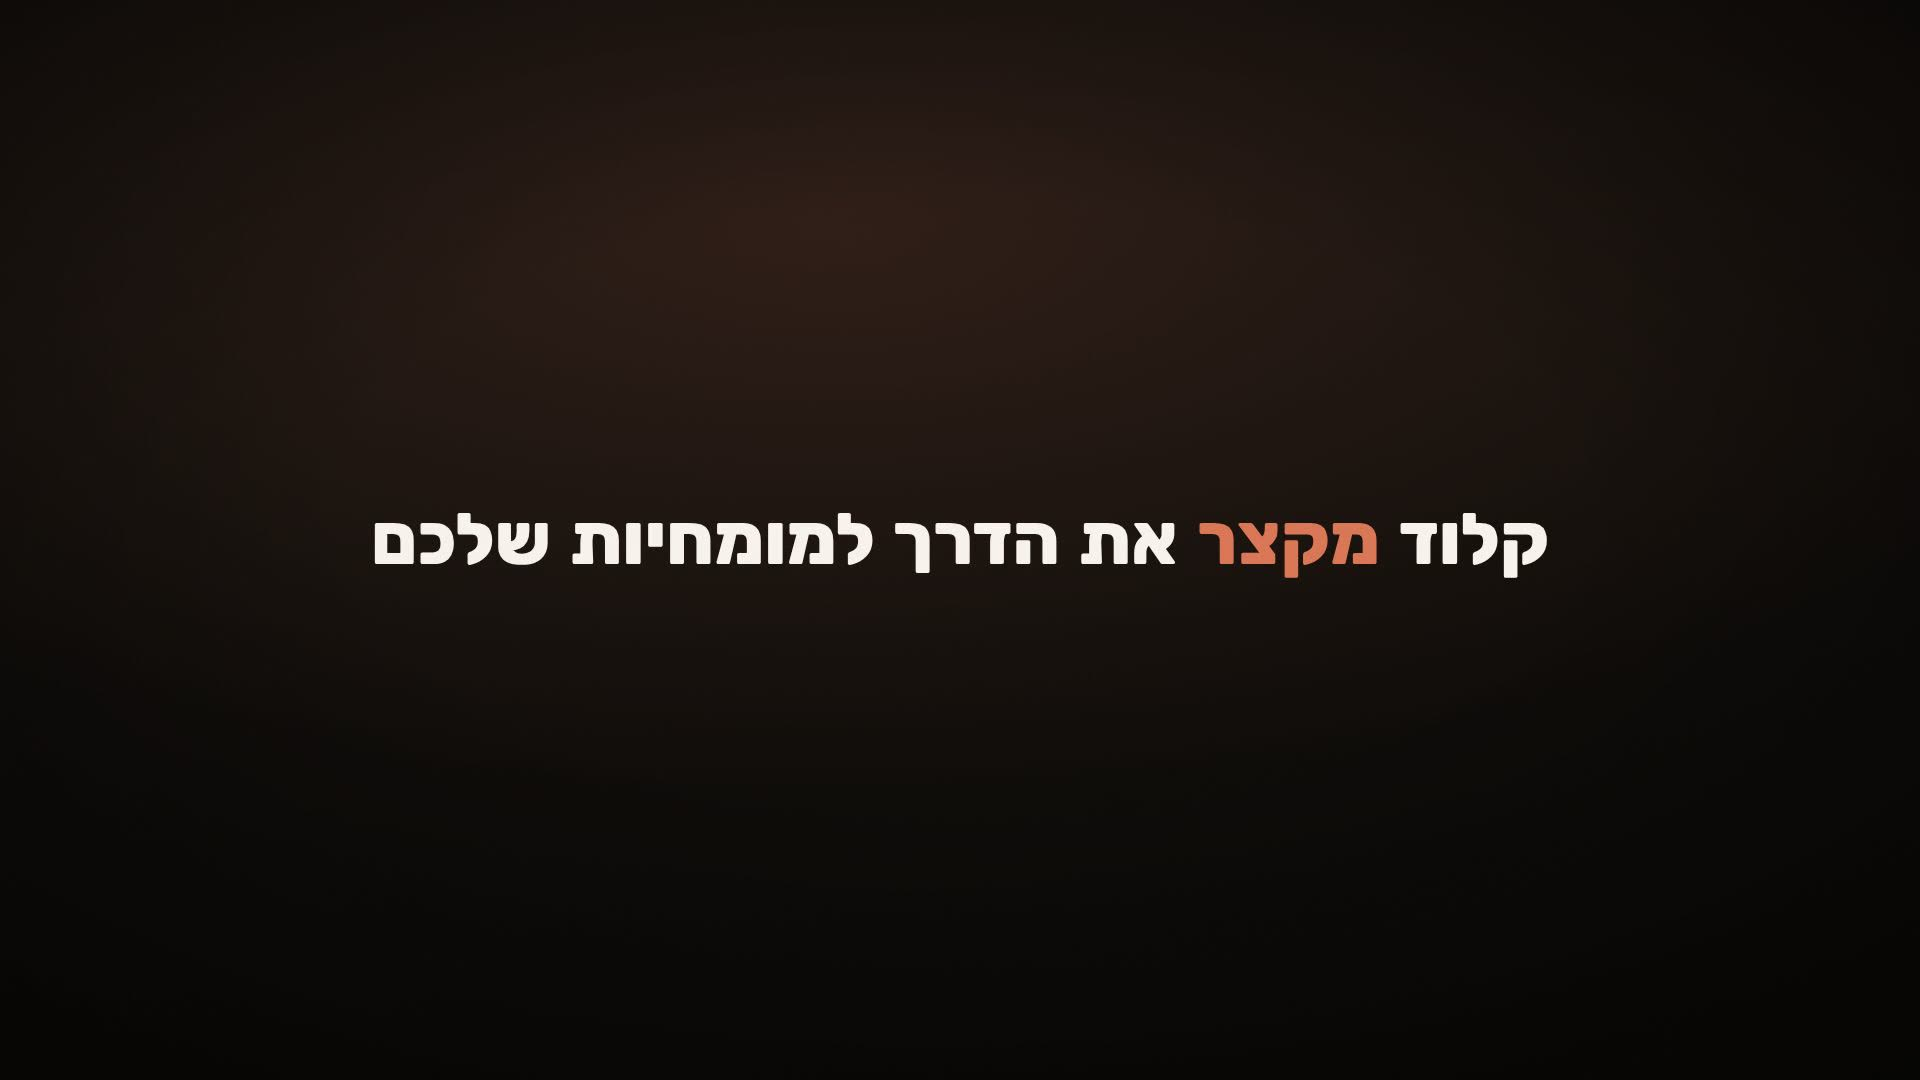
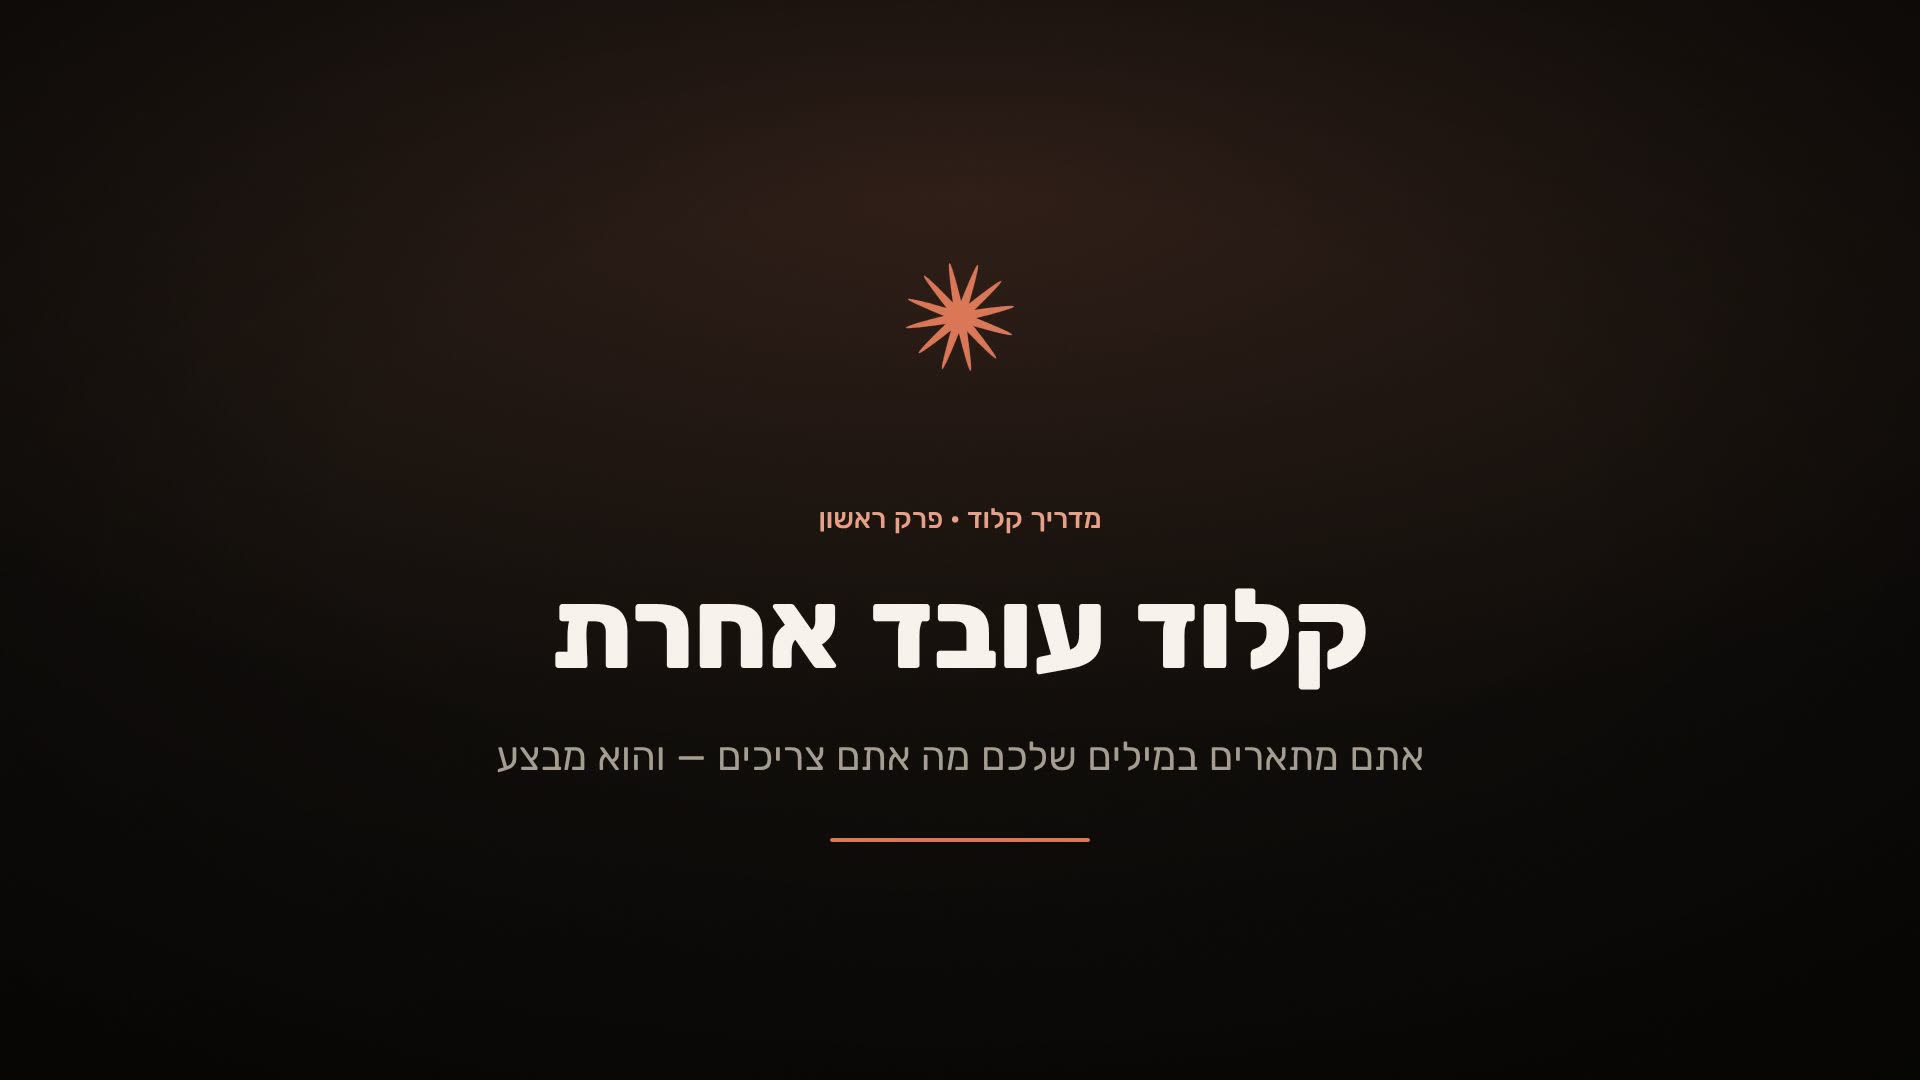
Add episode 2, and correct episode 1 to the names the films use
Both films carry a title card naming the series, the episode number, the title
and a subtitle. I had not found episode 1's — sampling at two and nine-tenths
of a second caught it mid-animation — so its entry went in under a title and a
series name I wrote myself. Episode 2's card made that visible.

Corrected to what the films say:

  series   קלוד — סדרת הדרכה   ->  מדריך קלוד
  ep01     עוזר מקצועי, לא עוד כלי  ->  קלוד עובד אחרת
  ep01     פרק 1               ->  פרק ראשון

Episodes now carry the film's own subtitle in a `lead` field, which reads in the
list where a clamped summary used to, and as a deck on the episode page. A
comment on the data says the title cards are authoritative, so the next episode
does not get invented copy either.

Both posters are now the films' own title cards rather than frames pulled from
the middle. A title card is what a poster is for, and it makes the list
thumbnails identifiable instead of dark rectangles.

Episode 2, "מתחברים ומתחילים" — one account across mobile, desktop and browser;
the main screen and its single text field; the model picker and why the heaviest
model is not automatically the right one; and setting personal preferences once
rather than re-explaining them in every chat. 1920x1080, 6:54, 29.3MB at
239kbps video — heavily compressed, but it is text slides and UI stills, and the
frames hold up.

Also: the page kicker no longer repeats the title it sits above, and the shell
link uses the series' real name.
[…]

diff --git a/src/content/explainers.ts b/src/content/explainers.ts
@@ -20,6 +20,8 @@ export interface ExplainerEpisode {
   title: string;
   /** Short eyebrow label. */
   kicker: string;
+  /** The film's own subtitle, from its title card. */
+  lead: string;
   summary: string;
   /** The one line to leave with. */
   takeaway: string;
@@ -47,14 +49,18 @@ export interface ExplainerSeries {
 
 export const explainerSeries: ExplainerSeries = {
   id: 'claude',
-  title: 'קלוד — סדרת הדרכה',
-  lead: 'סדרת פרקים קצרים על עבודה עם קלוד: מה להעביר לו, איך לזהות משימה שמתאימה, ומה נשאר באחריות שלכם.',
+  // The films name themselves on their own title cards — series, episode number,
+  // title and subtitle — so all of that is transcribed rather than written around
+  // them. Anything here that disagrees with a title card is a mistake.
+  title: 'מדריך קלוד',
+  lead: 'סדרת פרקים קצרים על עבודה עם קלוד: מה להעביר לו, איפה הוא יושב, ואיך להגדיר אותו פעם אחת כך שיתאים לעבודה שלכם.',
   episodes: [
     {
       id: 'ep01',
       n: 1,
-      title: 'עוזר מקצועי, לא עוד כלי',
-      kicker: 'פרק 1',
+      title: 'קלוד עובד אחרת',
+      kicker: 'פרק ראשון',
+      lead: 'אתם מתארים במילים שלכם מה אתם צריכים — והוא מבצע',
       summary:
         'רוב הכלים שאנחנו עובדים איתם דורשים שנדע בדיוק מה לעשות ואיפה ללחוץ. קלוד עובד אחרת — מעבירים לו משימה שלמה והוא מבצע אותה: מסמך של 40 עמודים שהוא קורא ועונה עליו לעומק, טיוטת הצעה ללקוח, מסמך תהליך, שלד של מצגת. הפרק מציג את כלל האצבע לזיהוי משימה מתאימה, את החיבור של החשבון הארגוני למיקרוסופט 365, ואת הגבולות שנשארים אצל האדם.',
       takeaway:
@@ -63,6 +69,21 @@ export const explainerSeries: ExplainerSeries = {
       poster: 'assets/poster/claude-ep01.jpg',
       duration: 219.78,
       bytes: 24429891,
+    },
+    {
+      id: 'ep02',
+      n: 2,
+      title: 'מתחברים ומתחילים',
+      kicker: 'פרק שני',
+      lead: 'התקנה, חשבון, והמסך שממנו הכל מתחיל',
+      summary:
+        'חשבון אחד עובד בנייד, במחשב ובדפדפן, והשיחות עוברות איתכם בין המכשירים. הפרק עובר על המסך הראשי ועל שדה הטקסט היחיד שממנו הכל מתחיל, על בורר המודלים — ולמה המודל הכבד ביותר הוא לא בהכרח הנכון, כשהוא מחזיר אותה תוצאה תמורת יותר זמן ויותר מכסה — ועל ההגדרות האישיות: מגדירים פעם אחת מה התפקיד שלכם, איזה אורך תשובה אתם רוצים ואיזה סוג דוגמאות, במקום להסביר את זה מחדש בכל צ׳אט.',
+      takeaway:
+        'פתחתם את הבורר ואין לכם מושג? Sonnet הוא בדרך כלל הימור מצוין. ואת ההעדפות שלכם כדאי להגדיר פעם אחת, לא בכל שיחה.',
+      file: 'assets/video/claude-ep02.mp4',
+      poster: 'assets/poster/claude-ep02.jpg',
+      duration: 414.44,
+      bytes: 29290366,
     },
   ],
 };

diff --git a/src/learner/Explainers.tsx b/src/learner/Explainers.tsx
@@ -28,7 +28,7 @@ export function Explainers() {
       <main className="page page--narrow" style={{ margin: '0 auto' }}>
         <div className="page__head">
           <div>
-            <div className="page__kicker">הדרכות קלוד</div>
+            <div className="page__kicker">סדרת וידאו</div>
             <h1>{explainerSeries.title}</h1>
             <p>{explainerSeries.lead}</p>
           </div>
@@ -52,7 +52,7 @@ export function Explainers() {
                 <span className="eprow__body">
                   <span className="eprow__k">{ep.kicker}</span>
                   <span className="eprow__t">{ep.title}</span>
-                  <span className="eprow__s">{ep.summary}</span>
+                  <span className="eprow__s">{ep.lead}</span>
                 </span>
                 <span className="eprow__meta">
                   <b>{episodeMinutes(ep)} דק׳</b>
@@ -95,6 +95,7 @@ export function ExplainerEpisodePage() {
           <div>
             <div className="page__kicker">{episode.kicker}</div>
             <h1>{episode.title}</h1>
+            <p>{episode.lead}</p>
           </div>
         </div>
 

diff --git a/src/app/Shell.tsx b/src/app/Shell.tsx
@@ -64,7 +64,7 @@ export function Shell({ crumb, children }: Props) {
         {/* Reference material about the tool itself, so it hangs off the shell rather
             than living inside a programme. Both roles get it. */}
         <Link className="topbar__link" to="/explainers" aria-current={onExplainers}>
-          הדרכות קלוד
+          מדריך קלוד
         </Link>
 
         {isAdmin ? (

diff --git a/src/learner/explainers.css b/src/learner/explainers.css
@@ -80,7 +80,7 @@
   letter-spacing: -0.015em;
   color: var(--ink);
 }
-/* Two lines in the list; the whole summary is on the episode's own page. */
+/* The film's own subtitle: one line, clamped only if a future one runs long. */
 .eprow__s {
   display: -webkit-box;
   -webkit-line-clamp: 2;
